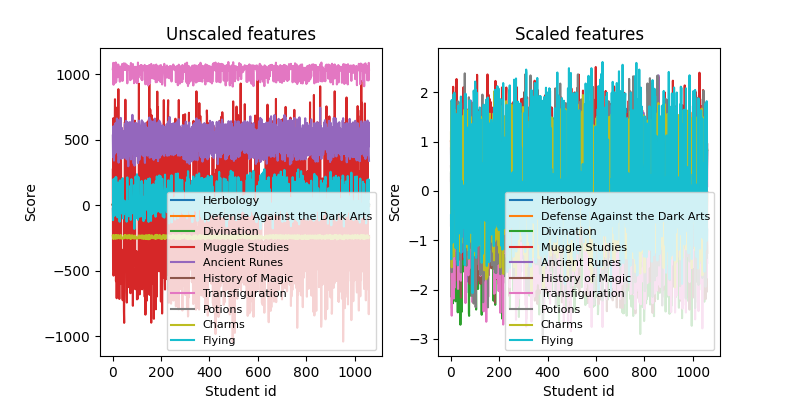
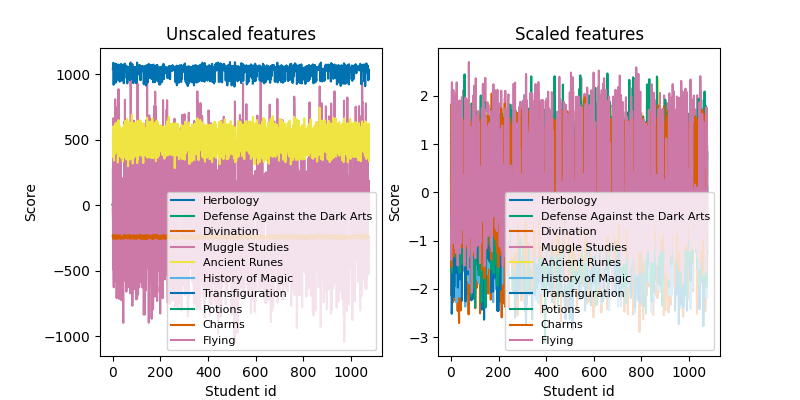
fig style and small fixes

diff --git a/src/logreg_train.py b/src/logreg_train.py
@@ -45,7 +45,7 @@ def scale_features(df_train, courses, n_features):
     ax[0].set_ylabel('Score')
     ax[1].set_xlabel('Student id')
     ax[1].set_ylabel('Score')
-    fig.savefig(os.path.join('figures', 'features.png'))
+    fig.savefig('figures/features.png')
 
     # Augment feature matrix to allow for constant weight theta_0
     X = np.vstack((np.ones((1, x_scaled.shape[1])), x_scaled))
@@ -79,7 +79,7 @@ def gradient_descent(X, y_arr, n_features, houses):
     ax.set_ylabel('Cost')
     ax.legend(houses)
     ax.set_title('Cost evolution')
-    fig.savefig(os.path.join('figures', 'cost_evolution.png'))
+    fig.savefig('figures/cost_evolution.png')
 
     return thetaT_arr
 
@@ -126,6 +126,7 @@ def main(argv):
         print(f'Using {n_train} students out of {n_before}:'
               f' {n_before - n_train} have missing data.')
 
+        plt.style.use('seaborn-v0_8-colorblind')
         X, x_means, x_stds = scale_features(df_train, courses, n_features)
 
         # Extract labels y:

diff --git a/src/generate_validation_datasets.py b/src/generate_validation_datasets.py
@@ -46,10 +46,10 @@ def save_validation_datasets(validation_dir, df_train, df_test, df_result):
 def main():
     '''Split original train dataset into subsets for validation'''
     try:
-        random.seed(13)  # to keep things reproducible for now
+        # random.seed(13)  # to keep things reproducible
         print('Reading original train dataset...')
         df = pd.read_csv(
-            os.path.join('datasets', 'dataset_train.csv'), index_col=0
+            'datasets/dataset_train.csv', index_col=0
         )
 
         validation_dir = 'validation_datasets'

diff --git a/src/ft_describe.py b/src/ft_describe.py
@@ -22,6 +22,7 @@ def main(argv):
             if column_np.size == 0:  # if empty, skip
                 continue
             stats_df[column] = [myDict[key](column_np) for key in myDict]
+        # pd.set_option('display.max_columns', None)
         print(stats_df)
         #  print(df.describe())  #  for comparison with lib equivalent
         return 0

diff --git a/readme.md b/readme.md
@@ -27,6 +27,49 @@ Min    -24370.000000  -966.740546   -10.295663  ...                  -3.313676  
 Max    104956.000000  1016.211940    11.612895  ...                   3.056546  -225.428140   279.070000
 ```
 
+```
+Arithmancy   Astronomy   Herbology  Defense Against the Dark Arts  \
+Count    387.000000  387.000000  389.000000                     392.000000   
+Mean   50088.971576   48.155326    1.385517                      -0.537843   
+Std    15452.744803  511.875159    5.048793                       5.112229   
+Min     4536.000000 -802.725180   -9.687662                      -8.700635   
+25%    40167.500000 -483.719690   -4.183731                      -5.209348   
+50%    49238.000000  292.108738    3.630490                      -2.915654   
+75%    60644.500000  514.001599    5.405685                       4.785055   
+Max    99744.000000  870.063498    9.678462                       8.027252   
+
+       Divination  Muggle Studies  Ancient Runes  History of Magic  \
+Count  394.000000      390.000000     392.000000        389.000000   
+Mean     3.411071     -220.169594     495.937543          2.829816   
+Std      3.886250      497.030335     101.527670          4.311657   
+Min     -8.183000    -1041.323658     319.360250         -7.189090   
+25%      3.528750     -580.049325     400.719831          2.227669   
+50%      4.703000     -407.549022     484.102477          4.290164   
+75%      5.571000      221.387925     591.372101          5.662488   
+Max      8.604000      939.317135     667.674165         10.366995   
+
+       Transfiguration     Potions  Care of Magical Creatures      Charms  \
+Count       389.000000  390.000000                 392.000000  400.000000   
+Mean       1030.885777    5.776860                   0.022985 -243.181109   
+Std          45.288575    3.213497                   1.017705    8.716274   
+Min         906.932050   -1.162060                  -2.871119 -259.866780   
+25%        1028.499974    3.230372                  -0.646285 -250.150987   
+50%        1047.648405    5.731330                   0.059416 -244.758710   
+75%        1060.367924    8.136907                   0.711248 -232.798160   
+Max        1099.966073   13.390013                   3.205525 -226.003820   
+
+           Flying  
+Count  400.000000  
+Mean    23.367450  
+Std     95.066887  
+Min   -143.520000  
+25%    -38.475000  
+50%     -2.555000  
+75%     45.332500  
+Max    282.430000  
+```
+
+
 We note the wide discrepancy of the score ranges used in different courses. This already gives us a hint that feature scaling will be necessary for the convergence of the gradient descent.
 
 ## Data Visualization
